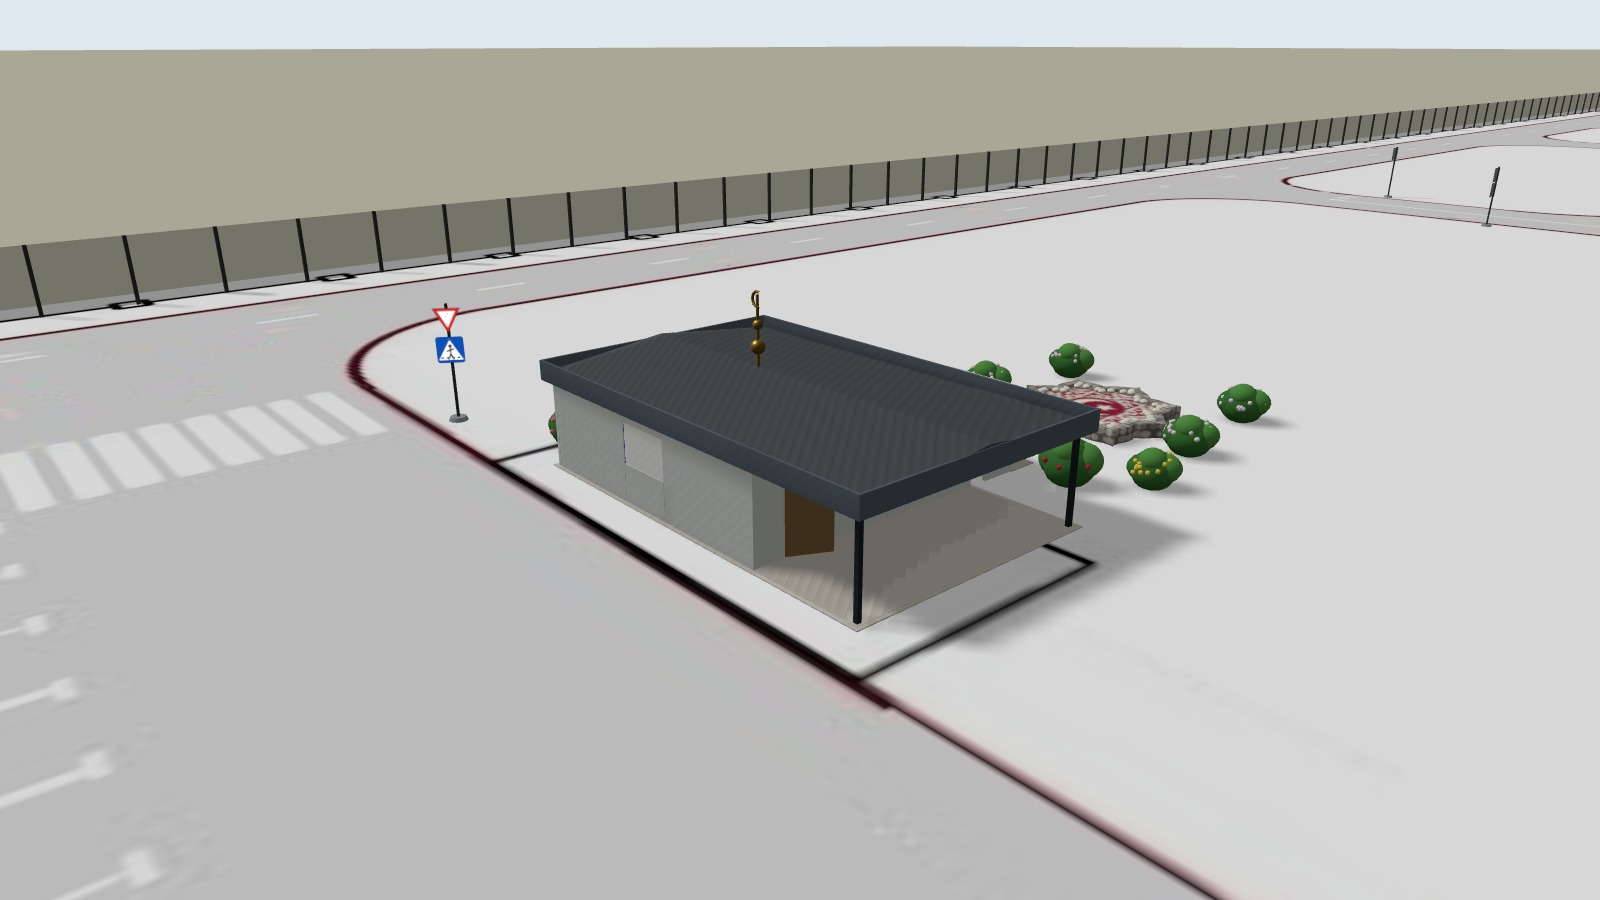
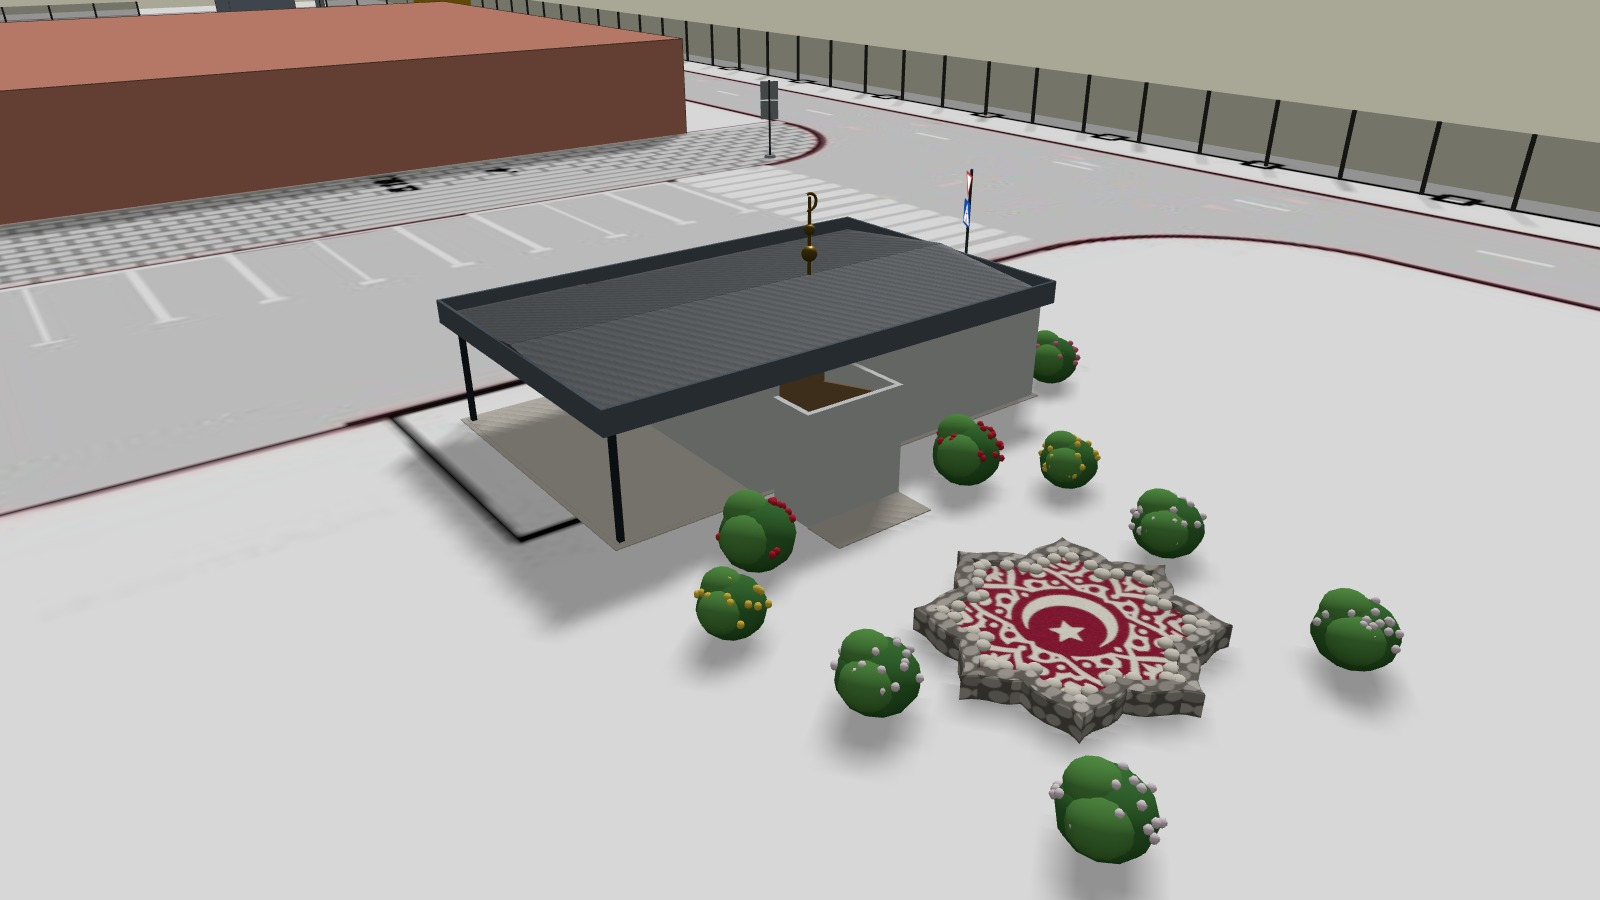
Mosque overview from the north-east so the entrance and the flowerbed are in front
Claude-Session: https://claude.ai/code/session_01F9vtHPtZGeYhA4xT8Rqj6J

diff --git a/territory-3d/renders/PROMPTS.md b/territory-3d/renders/PROMPTS.md
@@ -14,7 +14,7 @@ industrial camp, overcast soft daylight, 35 mm lens, high detail, no people, no 
 | `park_aisle.jpg` | (104, 1.7, −323) → (60, 2.5, −323) | Eye-level view down the parking aisle towards the gabion wall: a 1 m high gabion wall of wire mesh and grey stone closes the aisle, behind it two mono-pitch steel carports on both sides, dark profiled-sheet roofs, black posts, white bay lines on grey asphalt, open bays in the foreground, mesh fence and a guard post at the far end. |
 | `park_gate.jpg` | (28, 1.7, −335) → (60, 2.5, −323) | Eye-level view from the entrance gate along the car park: mono-pitch carports left and right of the aisle, roofs rising towards the aisle, corrugated dark grey profiled sheet, slim steel posts, concrete sidewalk with kerb in the foreground, modular office buildings and the camp fence in the background. |
 | `park_gabion.jpg` | (90, 2.5, −308) → (76, 1.5, −324) | Close three-quarter view of the gabion wall end: galvanised welded-mesh boxes 1 × 1 × 0.6 m filled with medium grey crushed stone, neat stacked courses, standing across empty parking bays and the aisle; carport roofs of dark profiled sheet behind, black steel posts, grey asphalt with white lines, paving-slab sidewalk. |
-| `mosque_ne.jpg` | кнопка «К мечети» | (баки и площадка ТКО у мечети убраны по решению заказчика) Small prayer house in a worker camp: light grey sandwich-panel module 7 × 6 m with dark grey corner profiles, low gable roof of profiled sheet with a dark band fascia, a gilded spire with a crescent on the ridge, an open canopy 2.7 m deep on two slim black posts at the east end, a small entrance vestibule on the north side, a single window; gravel and concrete-slab paving around, mesh fence, waste-container pad with three bins nearby. |
+| `mosque_ne.jpg` | (43, 9, −135) → (32.5, 0.5, −121.5), с северо-востока | (баки и площадка ТКО у мечети убраны по решению заказчика) Small prayer house in a worker camp: light grey sandwich-panel module 7 × 6 m with dark grey corner profiles, low gable roof of profiled sheet with a dark band fascia, a gilded spire with a crescent on the ridge, an open canopy 2.7 m deep on two slim black posts at the east end, a small entrance vestibule on the north side, a single window; gravel and concrete-slab paving around, mesh fence, waste-container pad with three bins nearby. |
 | `mosque_canopy.jpg` | (46, 2.2, −112) → (35, 1.5, −118.6) | Eye-level view of the mosque canopy end: open steel canopy with profiled-sheet roof on two black posts, concrete slab under it, wooden door into the prayer hall, light grey sandwich panels with dark corner trims, gilded crescent finial above the roof band. |
 | `mosque_entrance.jpg` | (34, 1.8, −131) → (33, 1.5, −120) | Eye-level view of the north entrance: a small grey vestibule box attached to the module, wooden entrance door, short ramp, light grey panel walls, dark roof band, gilded spire, camp fence and road behind. |
 | `mosque_aerial.jpg` | (22, 24, −100) → (32, 0, −118.6) | Aerial view of the mosque module next to a fenced waste-container pad: gable roof of dark profiled sheet with a gilded finial, canopy on posts towards the pad, vestibule on the north, grey paving, kerbs, mesh fence, road with markings. |
